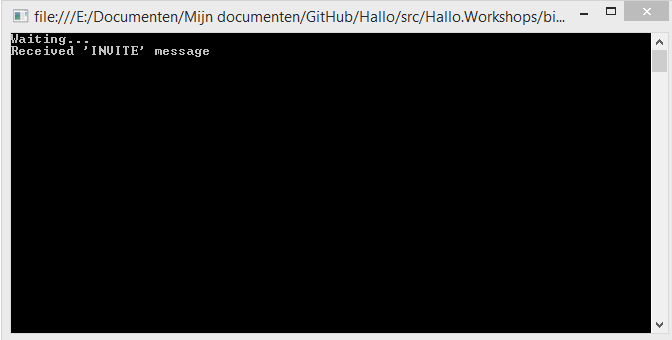
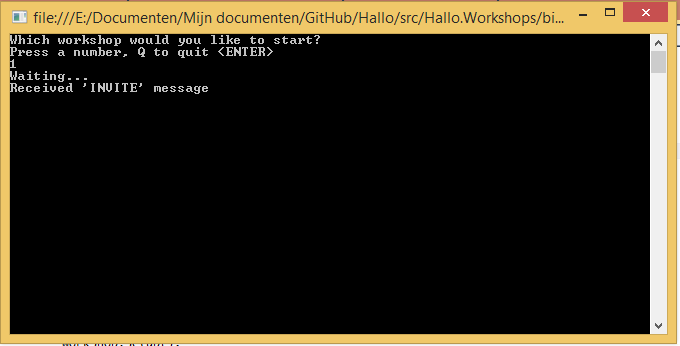
added workshop2

Changed region(s): [[0.0, 0.0, 1.0, 1.0]]

diff --git a/src/Hallo.Workshops/WorkShop1.cs b/src/Hallo.Workshops/WorkShop1.cs
@@ -1,88 +1,20 @@
-using System.Linq;
-using System.Net;
-using System.Net.Sockets;
-using Hallo.Sip;
-using Hallo.Sip.Headers;
-using Hallo.Sip.Stack;
-using Hallo.Sip.Util;
+using Hallo.Sip;
 
 namespace Hallo.Workshops
 {
-    public class WorkShop1
+    public class WorkShop1 : WorkShopBase
     {
-        private IPAddress _ipAddress;
-        private ISipProvider _receiverProvider;
-        private ISipProvider _senderProvider;
-        private SipStack _stack;
-
-        public void Setup()
+        public override void Start()
         {
-            _ipAddress =
-                Dns.GetHostAddresses(string.Empty).Where(a => a.AddressFamily == AddressFamily.InterNetwork).First();
-
-            /*create stack*/
-            _stack = new SipStack();
-
-            /*create sipproviders*/
-            _senderProvider = _stack.CreateSipProvider(_stack.CreateUdpListeningPoint(_ipAddress, 12345));
-            _receiverProvider = _stack.CreateSipProvider(_stack.CreateUdpListeningPoint(_ipAddress, 23456));
-
             /*create a listener and register it against the receiver provider*/
-            var listener = new SipListener();
+            var listener = new WorkShop1Listener();
             _receiverProvider.AddSipListener(listener);
-        }
+            
+            /*create message*/
+            SipRequest request = CreateRequest(SipMethods.Invite);
 
-        public void Start()
-        {
-            /*start both providers*/
-            _senderProvider.Start();
-            _receiverProvider.Start();
-
-            SipRequest message = CreateInvite();
-
-            _senderProvider.SendRequest(message);
-        }
-
-        private SipRequest CreateInvite()
-        {
-            /*create the 'INVITE' message*/
-            SipAddressFactory addressFactory = _stack.CreateAddressFactory();
-            SipHeaderFactory headerFactory = _stack.CreateHeaderFactory();
-            SipMessageFactory messageFactory = _stack.CreateMessageFactory();
-
-            SipUri senderSipUri = addressFactory.CreateUri(string.Empty, new IPEndPoint(_ipAddress, 12345).ToString());
-            SipAddress senderSipAddress = addressFactory.CreateAddress(string.Empty, senderSipUri);
-
-            SipUri receiverSipUri = addressFactory.CreateUri(string.Empty, new IPEndPoint(_ipAddress, 23456).ToString());
-            SipAddress receiverSipAddress = addressFactory.CreateAddress(string.Empty, senderSipUri);
-
-            SipToHeader toHeader = headerFactory.CreateToHeader(receiverSipAddress);
-            SipFromHeader fromHeader = headerFactory.CreateFromHeader(senderSipAddress, SipUtil.CreateTag());
-            SipCSeqHeader cseqHeader = headerFactory.CreateSCeqHeader(SipMethods.Invite, 1);
-            SipCallIdHeader callIdheader = headerFactory.CreateCallIdHeader(SipUtil.CreateCallId());
-            SipViaHeader viaHeader = headerFactory.CreateViaHeader(_ipAddress, 12345, SipConstants.Udp,
-                                                                   SipUtil.CreateBranch());
-            SipMaxForwardsHeader maxForwardsHeader = headerFactory.CreateMaxForwardsHeader();
-            SipRequest request = messageFactory.CreateRequest(
-                receiverSipUri,
-                SipMethods.Invite,
-                callIdheader,
-                cseqHeader,
-                fromHeader,
-                toHeader,
-                viaHeader,
-                maxForwardsHeader);
-
-            SipContactHeader contactHeader = headerFactory.CreateContactHeader(senderSipUri);
-            request.Contacts.Add(contactHeader);
-
-            return request;
-        }
-
-        public void Stop()
-        {
-            _senderProvider.Stop();
-            _receiverProvider.Stop();
+            /*send the request*/
+            _senderProvider.SendRequest(request);
         }
     }
 }

diff --git a/src/Hallo.Workshops/WorkShopBase.cs b/src/Hallo.Workshops/WorkShopBase.cs
@@ -1,0 +1,84 @@
+using System.Linq;
+using System.Net;
+using System.Net.Sockets;
+using Hallo.Sip;
+using Hallo.Sip.Headers;
+using Hallo.Sip.Stack;
+using Hallo.Sip.Util;
+
+namespace Hallo.Workshops
+{
+    public abstract class WorkShopBase
+    {
+        protected IPAddress _ipAddress;
+        protected ISipProvider _receiverProvider;
+        protected ISipProvider _senderProvider;
+        protected SipStack _stack;
+
+        public void Setup()
+        {
+            _ipAddress =
+                Dns.GetHostAddresses(string.Empty).Where(a => a.AddressFamily == AddressFamily.InterNetwork).First();
+
+            /*create stack*/
+            _stack = new SipStack();
+
+            /*create sipproviders*/
+            _senderProvider = _stack.CreateSipProvider(_stack.CreateUdpListeningPoint(_ipAddress, 12345));
+            _receiverProvider = _stack.CreateSipProvider(_stack.CreateUdpListeningPoint(_ipAddress, 23456));
+
+            /*start both providers*/
+            _senderProvider.Start();
+            _receiverProvider.Start();
+
+        }
+
+        public abstract void Start();
+        
+
+        protected SipRequest CreateRequest(string method)
+        {
+            /*create the 'INVITE' message*/
+            SipAddressFactory addressFactory = _stack.CreateAddressFactory();
+            SipHeaderFactory headerFactory = _stack.CreateHeaderFactory();
+            SipMessageFactory messageFactory = _stack.CreateMessageFactory();
+
+            SipUri senderSipUri = addressFactory.CreateUri(string.Empty, new IPEndPoint(_ipAddress, 12345).ToString());
+            SipAddress senderSipAddress = addressFactory.CreateAddress(string.Empty, senderSipUri);
+
+            SipUri receiverSipUri = addressFactory.CreateUri(string.Empty, new IPEndPoint(_ipAddress, 23456).ToString());
+            SipAddress receiverSipAddress = addressFactory.CreateAddress(string.Empty, senderSipUri);
+
+            SipToHeader toHeader = headerFactory.CreateToHeader(receiverSipAddress);
+            SipFromHeader fromHeader = headerFactory.CreateFromHeader(senderSipAddress, SipUtil.CreateTag());
+            SipCSeqHeader cseqHeader = headerFactory.CreateSCeqHeader(method, 1);
+            SipCallIdHeader callIdheader = headerFactory.CreateCallIdHeader(SipUtil.CreateCallId());
+            SipViaHeader viaHeader = headerFactory.CreateViaHeader(_ipAddress, 12345, SipConstants.Udp,
+                                                                   SipUtil.CreateBranch());
+            SipMaxForwardsHeader maxForwardsHeader = headerFactory.CreateMaxForwardsHeader();
+            SipRequest request = messageFactory.CreateRequest(
+                receiverSipUri,
+                method,
+                callIdheader,
+                cseqHeader,
+                fromHeader,
+                toHeader,
+                viaHeader,
+                maxForwardsHeader);
+            
+            if (method == SipMethods.Invite)
+            {
+                SipContactHeader contactHeader = headerFactory.CreateContactHeader(senderSipUri);
+                request.Contacts.Add(contactHeader);
+            }
+
+            return request;
+        }
+
+        public void Stop()
+        {
+            _senderProvider.Stop();
+            _receiverProvider.Stop();
+        }
+    }
+}

diff --git a/src/Hallo.Workshops/WorkShop2Listener.cs b/src/Hallo.Workshops/WorkShop2Listener.cs
@@ -1,0 +1,40 @@
+using System;
+using Hallo.Sip;
+using Hallo.Sip.Stack;
+
+namespace Hallo.Workshops
+{
+    public class WorkShop2Listener : ISipListener
+    {
+        private readonly ISipProvider _receiverProvider;
+
+        public WorkShop2Listener(ISipProvider receiverProvider)
+        {
+            _receiverProvider = receiverProvider;
+        }
+
+        public void ProcessTimeOut(SipTimeOutEvent timeOutEvent)
+        {
+
+        }
+
+        public void ProcessRequest(SipRequestEvent requestEvent)
+        {
+            Console.WriteLine("Received '{0}' request", requestEvent.Request.CSeq.Command);
+
+            var okResponse = requestEvent.Request.CreateResponse(SipResponseCodes.x200_Ok);
+
+            var serverTransaction = _receiverProvider.CreateServerTransaction(requestEvent.Request);
+            serverTransaction.SendResponse(okResponse);
+            
+            /*instruct the sipprovider that we have already sent the response*/
+            requestEvent.IsSent = true;
+        }
+
+        public void ProcessResponse(SipResponseEvent responseEvent)
+        {
+            Console.WriteLine("Received '{0}' response, from '{1}' request", responseEvent.Response.StatusLine.ResponseCode, responseEvent.Response.CSeq.Command);
+            
+        }
+    }
+}

diff --git a/src/Hallo.Workshops/Program.cs b/src/Hallo.Workshops/Program.cs
@@ -12,14 +12,26 @@ namespace Hallo.Workshops
     {
         static void Main(string[] args)
         {
-            WorkShop1 ws1 = new WorkShop1();
-            ws1.Setup();
-            ws1.Start();
+            int input = 1;
+            while(input > 0)
+            {
+                Console.WriteLine("Which workshop would you like to start?");
+                Console.WriteLine("Press a number, Q to quit <ENTER>");
+                var line = Console.ReadLine();
+           
+                if(!int.TryParse(line, out input)) break;
 
-            Console.WriteLine("Waiting...");
-            Console.ReadLine();
+                string workShopName = string.Format("Hallo.Workshops.WorkShop{0}", input);
+                var workShopType = Type.GetType(workShopName);
+                var workShop = (WorkShopBase) Activator.CreateInstance(workShopType);
 
-            ws1.Stop();
+                workShop.Setup();
+                workShop.Start();
+                Console.WriteLine("Waiting...");
+                Console.ReadLine();
+                workShop.Stop();
+                Console.WriteLine("Press <ENTER>");
+            }
         }
 
         

diff --git a/src/Hallo.Workshops/WorkShop2.cs b/src/Hallo.Workshops/WorkShop2.cs
@@ -1,0 +1,24 @@
+using Hallo.Sip;
+
+namespace Hallo.Workshops
+{
+    public class WorkShop2 : WorkShopBase
+    {
+        public override void Start()
+        {
+            /*create a listener and register it against both providers*/
+            var listener = new WorkShop2Listener(_receiverProvider);
+            _receiverProvider.AddSipListener(listener);
+            _senderProvider.AddSipListener(listener);
+
+            /*create message*/
+            SipRequest request = CreateRequest(SipMethods.Register);
+            
+            /*create the transaction*/
+            var clientTransaction = _senderProvider.CreateClientTransaction(request);
+
+            /*send the request*/
+            clientTransaction.SendRequest();
+        }
+    }
+}

diff --git a/src/Hallo.Workshops/WorkShop1Listener.cs b/src/Hallo.Workshops/WorkShop1Listener.cs
@@ -3,7 +3,7 @@ using Hallo.Sip.Stack;
 
 namespace Hallo.Workshops
 {
-    public class SipListener : ISipListener
+    public class WorkShop1Listener : ISipListener
     {
 
         public void ProcessTimeOut(SipTimeOutEvent timeOutEvent)
